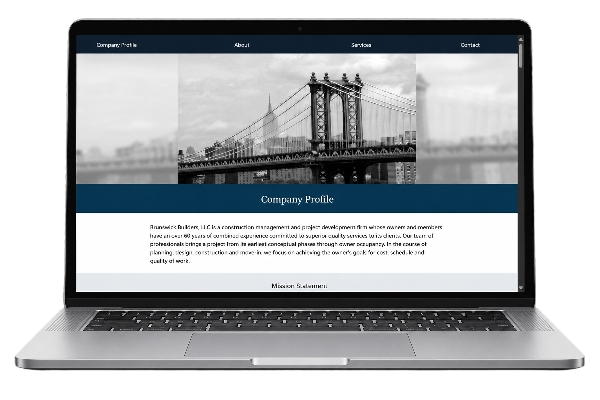
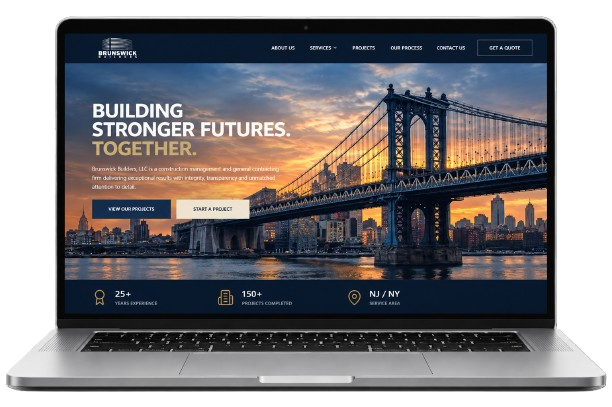
Update

diff --git a/src/i18n/translations.ts b/src/i18n/translations.ts
@@ -44,7 +44,8 @@ export const translations: Record<Lang, Dict> = {
       title: 'About Us',
       whoAmI: 'WHO AM I??',
       user: 'User',
-      realName: 'Real Name',
+      realName: 'Full Name',
+      realNameValue: 'Syeda Masuma Fatima Jaffery',
       role: 'Role',
       roleValue: 'Full-Stack Dev / Founder',
       company: 'Company',
@@ -57,11 +58,12 @@ export const translations: Record<Lang, Dict> = {
       status: 'Status',
       statusValue: 'Available ●',
       helloTitle: 'Hello, I am Masuma Jaffery',
-      bio: 'I specialize in building fast, reliable web and mobile products — from custom Shopify / WooCommerce stores to cross-platform apps. My mission: turn client ideas into shipped, working software.',
+      bio: 'US-certified Full Stack Developer building fast, reliable web and mobile products, from Shopify & WooCommerce stores to cross-platform apps. I turn ideas into shipped software.',
       getResume: 'Get Resume',
       pillFullStack: 'Full-Stack Dev',
       pillUiUx: 'UI / UX',
       pillApiDesign: 'API Design',
+      pillAiAutomations: 'AI Automations',
       frontend: 'Frontend',
       backendMobile: 'Backend & Mobile',
       cmsCommerce: 'CMS & Commerce',
@@ -172,7 +174,8 @@ export const translations: Record<Lang, Dict> = {
       title: 'Sobre Nosotros',
       whoAmI: '¿QUIÉN SOY?',
       user: 'Usuario',
-      realName: 'Nombre real',
+      realName: 'Nombre completo',
+      realNameValue: 'Syeda Masuma Fatima Jaffery',
       role: 'Rol',
       roleValue: 'Desarrolladora Full-Stack / Fundadora',
       company: 'Empresa',
@@ -185,11 +188,12 @@ export const translations: Record<Lang, Dict> = {
       status: 'Estado',
       statusValue: 'Disponible ●',
       helloTitle: 'Hola, soy Masuma Jaffery',
-      bio: 'Me especializo en construir productos web y móviles rápidos y confiables — desde tiendas personalizadas en Shopify / WooCommerce hasta aplicaciones multiplataforma. Mi misión: convertir las ideas de los clientes en software funcional y entregado.',
+      bio: 'Desarrolladora Full Stack con certificación de EE. UU. que crea productos web y móviles rápidos y confiables, desde tiendas Shopify y WooCommerce hasta aplicaciones multiplataforma. Convierto ideas en software entregado.',
       getResume: 'Descargar CV',
       pillFullStack: 'Desarrollo Full-Stack',
       pillUiUx: 'UI / UX',
       pillApiDesign: 'Diseño de API',
+      pillAiAutomations: 'Automatizaciones con IA',
       frontend: 'Frontend',
       backendMobile: 'Backend y Móvil',
       cmsCommerce: 'CMS y Comercio',
@@ -300,7 +304,8 @@ export const translations: Record<Lang, Dict> = {
       title: 'ہمارے بارے میں',
       whoAmI: 'میں کون ہوں؟؟',
       user: 'یوزر',
-      realName: 'اصل نام',
+      realName: 'مکمل نام',
+      realNameValue: 'سیدہ معصومہ فاطمہ جعفری',
       role: 'کردار',
       roleValue: 'فل اسٹیک ڈویلپر / بانی',
       company: 'کمپنی',
@@ -313,11 +318,12 @@ export const translations: Record<Lang, Dict> = {
       status: 'اسٹیٹس',
       statusValue: 'دستیاب ●',
       helloTitle: 'السلام علیکم، میں معصومہ جعفری ہوں',
-      bio: 'میں تیز اور قابلِ بھروسہ ویب اور موبائل پروڈکٹس بنانے میں مہارت رکھتی ہوں — کسٹم شاپیفائی / ووکامرس اسٹورز سے لے کر کراس پلیٹ فارم ایپس تک۔ میرا مشن: کلائنٹ کے آئیڈیاز کو مکمل، کام کرنے والے سافٹ ویئر میں بدلنا۔',
+      bio: 'امریکہ سے تصدیق شدہ (US-certified) فل اسٹیک ڈویلپر جو تیز رفتار اور قابلِ بھروسہ ویب اور موبائل پروڈکٹس بناتی ہیں، شاپیفائی اور ووکامرس اسٹورز سے لے کر کراس پلیٹ فارم ایپس تک۔ میں آئیڈیاز کو تیار شدہ سافٹ ویئر میں بدلتی ہوں۔',
       getResume: 'ریزیومے حاصل کریں',
       pillFullStack: 'فل اسٹیک ڈویلپر',
       pillUiUx: 'یو آئی / یو ایکس',
       pillApiDesign: 'اے پی آئی ڈیزائن',
+      pillAiAutomations: 'اے آئی آٹومیشنز',
       frontend: 'فرنٹ اینڈ',
       backendMobile: 'بیک اینڈ اور موبائل',
       cmsCommerce: 'سی ایم ایس اور کامرس',
@@ -428,7 +434,8 @@ export const translations: Record<Lang, Dict> = {
       title: 'نبذة عنّا',
       whoAmI: 'من أنا؟؟',
       user: 'المستخدم',
-      realName: 'الاسم الحقيقي',
+      realName: 'الاسم الكامل',
+      realNameValue: 'سيدة معصومة فاطمة جعفري',
       role: 'الدور',
       roleValue: 'مطوّرة متكاملة / مؤسِّسة',
       company: 'الشركة',
@@ -441,11 +448,12 @@ export const translations: Record<Lang, Dict> = {
       status: 'الحالة',
       statusValue: 'متاحة ●',
       helloTitle: 'مرحباً، أنا معصومة جعفري',
-      bio: 'أتخصص في بناء منتجات ويب وموبايل سريعة وموثوقة — من متاجر Shopify / WooCommerce المخصصة إلى التطبيقات متعددة المنصات. مهمتي: تحويل أفكار العملاء إلى برمجيات جاهزة وفعّالة.',
+      bio: 'مطوّرة متكاملة معتمدة من الولايات المتحدة (US-certified) تبني منتجات ويب وموبايل سريعة وموثوقة، من متاجر Shopify وWooCommerce إلى التطبيقات عبر المنصات. أحوّل الأفكار إلى برمجيات جاهزة وفعّالة.',
       getResume: 'تحميل السيرة الذاتية',
       pillFullStack: 'تطوير متكامل',
       pillUiUx: 'تجربة وواجهة المستخدم',
       pillApiDesign: 'تصميم واجهات API',
+      pillAiAutomations: 'أتمتة الذكاء الاصطناعي',
       frontend: 'الواجهة الأمامية',
       backendMobile: 'الواجهة الخلفية والموبايل',
       cmsCommerce: 'أنظمة إدارة المحتوى والتجارة',
@@ -556,7 +564,8 @@ export const translations: Record<Lang, Dict> = {
       title: 'درباره ما',
       whoAmI: 'من کی هستم؟؟',
       user: 'کاربر',
-      realName: 'نام واقعی',
+      realName: 'نام کامل',
+      realNameValue: 'سیده معصومه فاطمه جعفری',
       role: 'نقش',
       roleValue: 'توسعهدهنده فولاستک / بنیانگذار',
       company: 'شرکت',
@@ -569,11 +578,12 @@ export const translations: Record<Lang, Dict> = {
       status: 'وضعیت',
       statusValue: 'در دسترس ●',
       helloTitle: 'سلام، من معصومه جعفری هستم',
-      bio: 'من در ساخت محصولات وب و موبایل سریع و قابلاعتماد تخصص دارم — از فروشگاههای اختصاصی Shopify / WooCommerce گرفته تا اپلیکیشنهای چندسکویی. مأموریت من: تبدیل ایدههای مشتریان به نرمافزارهای آماده و کارآمد.',
+      bio: 'توسعهدهنده فولاستک دارای گواهی از ایالات متحده (US-certified) در ساخت محصولات وب و موبایل سریع و قابلاعتماد، از فروشگاههای Shopify و WooCommerce تا اپلیکیشنهای چندسکویی. من ایدهها را به نرمافزارهای آماده و کاربردی تبدیل میکنم.',
       getResume: 'دریافت رزومه',
       pillFullStack: 'توسعه فولاستک',
       pillUiUx: 'UI / UX',
       pillApiDesign: 'طراحی API',
+      pillAiAutomations: 'اتوماسیون هوش مصنوعی',
       frontend: 'فرانتاند',
       backendMobile: 'بکاند و موبایل',
       cmsCommerce: 'سیستم مدیریت محتوا و تجارت',
